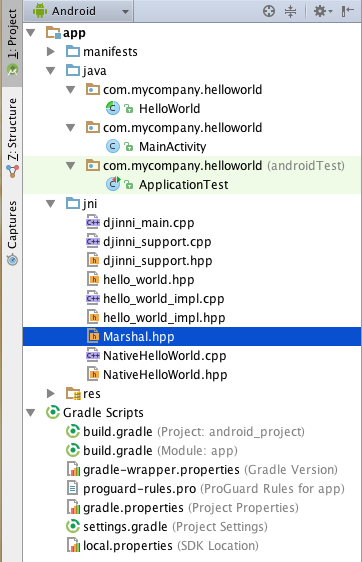
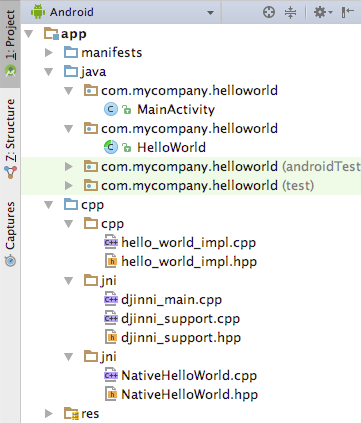
completed rewrite of tutorial 1, part 3 android

Changed region(s): [[0.0, 0.0, 1.0, 1.0], [0.0609, 0.7069, 0.0914, 0.7683], [0.1219, 0.3381, 0.1524, 0.3688]]

diff --git a/docs/_posts/2017-09-17-hello-world-app-part-3.md b/docs/_posts/2017-09-17-hello-world-app-part-3.md
@@ -41,133 +41,95 @@ On the fifth screen, select 'C++11' for the C++ Standard, and check both the 'Ex
 
 Click 'Finish' to complete the wizard, then publish the app to either a simulator or a device with the 'Play' button near the top of the screen to make sure everything is working. You should see a white screen with 'Hello from C++' displayed, but don’t get too excited yet because we still need to implement our C++ code!
 
-## Customize the Gradle Build
+## Add Our C++ files to CMakeLists.txt
 
-Android studio will now handle the CMake build for us, we just have to configure Gradle to point to our C++ and JNI source files.
+Android Studio will crate a library for us via CMake, we just have to configure the `CMakeLists.txt` file to point to all of the needed C++ and JNI files.
 
-We will utilize the experimental gradle plugin with Android Studio which provides a bit more C++ support when compiling the project (without the need for makefiles or GYP).
+In the Project folder nav, double click the `CMakeLists.txt` file to open it. This file has some useful notes about CMake builds in general if you want to look them over. For our project, we will just replace the file with the following:
 
-More information regarding the setup of the experimental gradle plugin can be found here: http://tools.android.com/tech-docs/new-build-system/gradle-experimental
-
-Edit the following files either by using a text editor or directly in Android Studio under ‘Gradle Scripts’:
-
-`gradle-wrapper.properties`:
+**android_project/HelloWorld/app/CMakeLists.txt**
 
 ```
-#Wed Oct 21 11:34:03 PDT 2015
-distributionBase=GRADLE_USER_HOME
-distributionPath=wrapper/dists
-zipStoreBase=GRADLE_USER_HOME
-zipStorePath=wrapper/dists
-distributionUrl=https\://services.gradle.org/distributions/gradle-2.10-all.zip
+cmake_minimum_required(VERSION 3.4.1)
+
+file(GLOB helloworld_sources
+    ../../../deps/djinni/support-lib/jni/*.cpp
+    ../../../generated-src/jni/*.cpp
+    ../../../src/cpp/*.cpp
+)
+
+add_library(helloworld SHARED ${helloworld_sources})
+
+# include directories for header files
+include_directories(
+    ../../../deps/djinni/support-lib/
+    ../../../deps/djinni/support-lib/jni/
+    ../../../generated-src/cpp/
+    ../../../generated-src/jni/
+    ../../../src/cpp/
+)
+
+target_link_libraries(helloworld)
 ```
 
-`HelloWorld/build.gradle`:
+Notice we've added a list of all `.cpp` source files throughout our project, including the Djinni support library, the automatically-generated bridge code, and our hand-written source files. The `include_directories` includes the paths to all of our `.hpp` header files needed to build the library.
+
+## Add our Java source to the Gradle Build
+
+Next we need to tell Gradle where to find our Java source files that were generated outside of the project. In the project browser, open the `build.gradle` with '(Module: app)' next to it. Either replace the contents of the file with the below code, or you just add the `sourceSets` section to the existing file:
+
+**android_project/HelloWorld/app/build.gradle**
 
 ```
-// Top-level build file where you can add configuration options common to all sub-projects/modules.
+apply plugin: 'com.android.application'
 
-buildscript {
-    repositories {
-        jcenter()
-    }
-    dependencies {
-        classpath "com.android.tools.build:gradle-experimental:0.8.3"
-
-        // NOTE: Do not place your application dependencies here; they belong
-        // in the individual module build.gradle files
-    }
-}
-
-allprojects {
-    repositories {
-        jcenter()
-    }
-}
-
-task clean(type: Delete) {
-    delete rootProject.buildDir
-}
-```
-
-*The format of the following build.gradle file has been subject to change several times in recent months. If you get errors, double check what version of the plugin you are using, and check the experimental plugin page for syntax updates: [http://tools.android.com/tech-docs/new-build-system/gradle-experimental](http://tools.android.com/tech-docs/new-build-system/gradle-experimental)*
-
-
-`app/build.gradle`
-
-```
-apply plugin: "com.android.model.application"
-
-model {
-    android {
-        compileSdkVersion 23
-        buildToolsVersion "23.0.0"
-
-        defaultConfig.with {
-            applicationId "com.mycompany.helloworld"
-            minSdkVersion.apiLevel 15
-            targetSdkVersion.apiLevel 22
-            versionCode 1
-            versionName "1.0"
-        }
-
-        buildTypes {
-            release {
-                minifyEnabled false
-                proguardFiles.add(file("proguard-rules.pro"))
+android {
+    compileSdkVersion 26
+    buildToolsVersion "26.0.1"
+    defaultConfig {
+        applicationId "com.mycompany.helloworld"
+        minSdkVersion 15
+        targetSdkVersion 26
+        versionCode 1
+        versionName "1.0"
+        testInstrumentationRunner "android.support.test.runner.AndroidJUnitRunner"
+        externalNativeBuild {
+            cmake {
+                cppFlags "-std=c++11 -frtti -fexceptions"
             }
         }
-
-        productFlavors {
-            create("flavor1") {
-                applicationId "com.mycompany.helloworld"
+    }
+    buildTypes {
+        release {
+            minifyEnabled false
+            proguardFiles getDefaultProguardFile('proguard-android.txt'), 'proguard-rules.pro'
+        }
+    }
+    sourceSets {
+        main {
+            java {
+                srcDirs = [
+                        "../../../generated-src/java",
+                        "src/main/java"
+                ]
             }
         }
-
-        sources {
-            main {
-                jni {
-                    source {
-                        srcDirs = [
-                                "../../../deps/djinni/support-lib/jni",
-                                "../../../generated-src/cpp",
-                                "../../../generated-src/jni",
-                                "../../../src/cpp"
-                        ]
-                    }
-                }
-
-                java {
-                    source {
-                        srcDirs = [
-                                "../../../generated-src/java",
-                                "src/main/java"
-                        ]
-                    }
-                }
-            }
-        }
-        ndk {
-            toolchain = "gcc"
-            toolchainVersion = "4.9"
-            moduleName = "helloworld"
-            stl = "gnustl_shared"
-            cppFlags.add("-std=c++11")
-            cppFlags.add("-fexceptions")
-            cppFlags.add("-frtti")
-            cppFlags.add("-I${file("../../../deps/djinni/support-lib")}".toString())
-            cppFlags.add("-I${file("../../../deps/djinni/support-lib/jni")}".toString())        // djinni src
-            cppFlags.add("-I${file("../../../generated-src/cpp")}".toString())               // app generated-src
-            cppFlags.add("-I${file("../../../generated-src/jni")}".toString())                   // app generated-src
-            cppFlags.add("-I${file("../../../src/cpp")}".toString())
+    }
+    externalNativeBuild {
+        cmake {
+            path "CMakeLists.txt"
         }
     }
 }
 
 dependencies {
-    compile fileTree(dir: "libs", include: ["*.jar"])
-    compile "com.android.support:appcompat-v7:22.2.0"
-    compile "com.android.support:design:23.1.1"
+    compile fileTree(dir: 'libs', include: ['*.jar'])
+    androidTestCompile('com.android.support.test.espresso:espresso-core:2.2.2', {
+        exclude group: 'com.android.support', module: 'support-annotations'
+    })
+    compile 'com.android.support:appcompat-v7:26.+'
+    compile 'com.android.support.constraint:constraint-layout:1.0.2'
+    testCompile 'junit:junit:4.12'
 }
 ```
 
@@ -175,13 +137,13 @@ Gradle will need to sync after editing these file, and afterward you should see 
 
 ![Android Studio After Gradle]({{ "/assets/images/hello-world-part-3/browser_after_gradle.png" | prepend:site.baseurl }} "Android Studio After Gradle")
 
-## Build the App
+## Build the Android UI
 
 Now we can get to coding and implement our C++ library within the Android app.
 
-Back in Android Studio within our project, let’s edit our MainActivity file. It is likely already open, but if not it is usually located at:
+Back in Android Studio within our project, let’s edit our MainActivity file. It is likely already open, but if not it is usually located in the project browser at this location:
 
-**app > java > main > java.com.mycompany.helloworld > MainActivity**
+**app > java > com.mycompany.helloworld**
 
 Either replace the contents of the file with the code below, or add the highlighted lines:
 
@@ -192,17 +154,14 @@ package com.mycompany.helloworld;
 
 import android.support.v7.app.AppCompatActivity;
 import android.os.Bundle;
-import android.view.Menu;
-import android.view.MenuItem;
 import android.view.View;
 import android.widget.TextView;
 
 public class MainActivity extends AppCompatActivity {
 
-    private HelloWorld helloWorldInterface;
+    private HelloWorld cppApi;
 
     static {
-        System.loadLibrary("gnustl_shared");
         System.loadLibrary("helloworld");
     }
 
@@ -211,42 +170,22 @@ public class MainActivity extends AppCompatActivity {
         super.onCreate(savedInstanceState);
         setContentView(R.layout.activity_main);
 
-        helloWorldInterface = HelloWorld.create();
-    }
-
-    @Override
-    public boolean onCreateOptionsMenu(Menu menu) {
-        // Inflate the menu; this adds items to the action bar if it is present.
-        getMenuInflater().inflate(R.menu.menu_main, menu);
-        return true;
-    }
-
-    @Override
-    public boolean onOptionsItemSelected(MenuItem item) {
-        // Handle action bar item clicks here. The action bar will
-        // automatically handle clicks on the Home/Up button, so long
-        // as you specify a parent activity in AndroidManifest.xml.
-        int id = item.getItemId();
-
-        //noinspection SimplifiableIfStatement
-        if (id == R.id.action_settings) {
-            return true;
-        }
-
-        return super.onOptionsItemSelected(item);
+        cppApi = HelloWorld.create();
     }
 
     public void buttonWasPressed(View view) {
-        String myString = helloWorldInterface.getHelloWorld() + "\n";
+        String myString = cppApi.getHelloWorld() + "\n";
         TextView t = (TextView) findViewById(R.id.helloWorldText);
         t.setText(myString + t.getText());
     }
 }
 ```
 
+Then edit the `activity_main.xml` file to include our UI with a button to click and a text field to display our C++ responses:
+
 `activity_main.xml`
 
-```
+```xml
 <LinearLayout xmlns:android="http://schemas.android.com/apk/res/android"
     xmlns:tools="http://schemas.android.com/tools" android:layout_width="match_parent"
     android:layout_height="match_parent"
